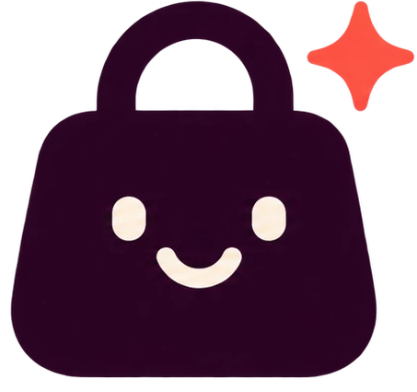
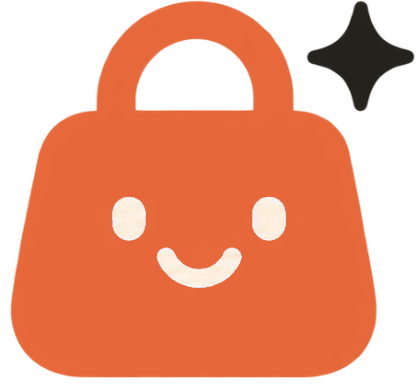
Expo builds and Growth Hacker admin
- eas.json: preview (Android APK, iOS simulator) and production profiles; phone builds point at the live server
- app.json linked to the Expo project @tayom/shelby
- Shelby admin renamed Growth Hacker and made analytics-only (products and orders live in the Mercur admin);
  /growth redirects to it; no public sign-up; restyled to the orange + charcoal palette and new logo

Claude-Session: https://claude.ai/code/session_012wqzAwzB3todXZcczmyirL

diff --git a/marketplace-app/server/web/app.js b/marketplace-app/server/web/app.js
@@ -1,4 +1,6 @@
-// Shelby for Sellers: shop owners set up their shop, upload products and ship orders.
+// Growth Hacker: Shelby's analytics admin (funnels, retention, experiments, people).
+// Products, prices, stock and orders live in the Mercur admin; the old seller screens below are
+// no longer routed to.
 // Vanilla JS, hash routes. Everything user-provided goes through esc() before it touches innerHTML.
 const $ = s => document.querySelector(s);
 const main = $('#main');
@@ -62,9 +64,7 @@ async function upload(file) { const { url } = await api('/api/seller/upload', { 
 
 function chrome() {
   const signedIn = !!state.user;
-  $('#nav').hidden = !signedIn || (!state.shop && state.user.role !== 'admin');
-  $('#nav-admin').hidden = state.user?.role !== 'admin';
-  $('#nav-analytics').hidden = state.user?.role !== 'admin';
+  $('#nav').hidden = !signedIn || state.user.role !== 'admin';
   $('#who').innerHTML = signedIn ? `<span class="hide-sm">${esc(state.user.email)}</span><button class="btn sm" id="logout">Log out</button>` : '';
   $('#logout')?.addEventListener('click', async () => { await api('/api/auth/logout', { method: 'POST' }); state.user = null; state.shop = null; location.hash = '#/login'; });
   const page = (location.hash.split('/')[1] || 'dash').split('?')[0];
@@ -76,8 +76,8 @@ function viewAuth(mode) {
   const signup = mode === 'signup';
   main.innerHTML = `<div class="auth card">
     <img src="/seller/mark.png" alt="" height="56" />
-    <h1 style="margin-top:12px">${signup ? 'Open your shop on Shelby' : 'Welcome back'}</h1>
-    <p class="sub">${signup ? 'Sell to people who love small shops. 0% commission for your first 60 days.' : 'Log in to manage your shop.'}</p>
+    <h1 style="margin-top:12px">Growth Hacker</h1>
+    <p class="sub">Log in to see Shelby's analytics, funnels and experiments.</p>
     <form id="f" novalidate>
       ${signup ? '<label for="name">Your name</label><input id="name" autocomplete="name" required />' : ''}
       <label for="email">Email</label><input id="email" type="email" autocomplete="email" required />
@@ -86,14 +86,14 @@ function viewAuth(mode) {
       <div class="err" id="err" role="alert"></div>
       <button class="btn primary" style="width:100%;justify-content:center;margin-top:6px">${signup ? 'Create account' : 'Log in'}</button>
     </form>
-    <p class="help" style="text-align:center;margin-top:16px">${signup ? 'Already selling? <a href="#/login">Log in</a>' : 'New here? <a href="#/signup">Open a shop</a>'}</p>
+    <p class="help" style="text-align:center;margin-top:16px">Need access? Ask an existing admin.</p>
   </div>`;
   $('#f').addEventListener('submit', async e => {
     e.preventDefault(); $('#err').textContent = '';
     try {
       const body = { email: $('#email').value, password: $('#pw').value, ...(signup ? { name: $('#name').value, setupCode: $('#code').value } : {}) };
       const { user } = await api(`/api/auth/${signup ? 'signup' : 'login'}`, { method: 'POST', body });
-      state.user = user; await loadMe(); location.hash = state.shop ? '#/' : '#/shop';
+      state.user = user; await loadMe(); location.hash = '#/analytics';
     } catch (err) { $('#err').textContent = err.message; }
   });
   (signup ? $('#name') : $('#email')).focus();
@@ -491,12 +491,10 @@ async function route() {
   chrome();
   track('screen_view', { page: page || 'home', signed_in: !!state.user });
   try {
-    if (!state.user) return viewAuth(page === 'signup' ? 'signup' : 'login');
-    if (!state.shop && page !== 'admin' && page !== 'analytics') return viewShop();
+    if (!state.user) return viewAuth('login');
+    if (state.user.role !== 'admin') { main.innerHTML = '<div class="card empty"><h2>Admins only</h2><p class="sub">Growth Hacker is for the Shelby team. Products and orders are managed in the Mercur admin.</p></div>'; return; }
     main.innerHTML = '<div class="skeleton"></div>';
-    if (page === 'products' && arg) return await viewEditor(decodeURIComponent(arg));
-    const view = { '': viewDash, products: viewProducts, orders: viewOrders, shop: viewShop, admin: viewAdmin, analytics: viewAnalytics }[page] || viewDash;
-    await view();
+    await viewAnalytics();
   } catch (e) { main.innerHTML = `<div class="card empty">${esc(e.message)}</div>`; }
   main.focus({ preventScroll: true });
 }

diff --git a/marketplace-app/server/web/index.html b/marketplace-app/server/web/index.html
@@ -3,20 +3,17 @@
 <head>
   <meta charset="utf-8" />
   <meta name="viewport" content="width=device-width, initial-scale=1" />
-  <title>Shelby for Sellers</title>
+  <title>Growth Hacker · Shelby</title>
   <link rel="icon" href="/seller/favicon.png" />
   <link rel="stylesheet" href="/seller/styles.css" />
 </head>
 <body>
   <header class="top">
-    <a href="#/" class="brand" aria-label="Shelby for Sellers home"><img src="/seller/logo.png" alt="Shelby" height="30" /><span>for Sellers</span></a>
-    <nav id="nav" aria-label="Seller sections" hidden>
-      <a href="#/" data-nav="dash">Home</a>
-      <a href="#/products" data-nav="products">Products</a>
-      <a href="#/orders" data-nav="orders">Orders</a>
-      <a href="#/shop" data-nav="shop">Shop</a>
-      <a href="#/admin" data-nav="admin" id="nav-admin" hidden>Admin</a>
-      <a href="#/analytics" data-nav="analytics" id="nav-analytics" hidden>Analytics</a>
+    <a href="#/" class="brand" aria-label="Growth Hacker home"><img src="/seller/logo.png" alt="Shelby" height="30" /><span>Growth Hacker</span></a>
+    <!-- Analytics only: products, prices, stock and orders are managed in the Mercur admin. -->
+    <nav id="nav" aria-label="Growth sections" hidden>
+      <a href="#/analytics" data-nav="analytics" id="nav-analytics">Analytics</a>
+      <a href="https://commerce-production-4c7b571b.up.railway.app/dashboard" target="_blank" rel="noopener">Products and orders ↗</a>
     </nav>
     <div class="who" id="who"></div>
   </header>

diff --git a/marketplace-app/server/web/styles.css b/marketplace-app/server/web/styles.css
@@ -1,6 +1,6 @@
 :root {
-  --bg: #FAF7F2; --surface: #fff; --ink: #2B0627; --ink2: #5F5260; --ink3: #8E8290; --line: #ECE5DB;
-  --accent: #FD5243; --accent-soft: #FFE7E3; --good: #1E8E5A; --good-soft: #E3F4EB; --warn: #9A6412; --warn-soft: #FDF1DC;
+  --bg: #FAF7F2; --surface: #fff; --ink: #231F1A; --ink2: #5A5148; --ink3: #716759; --line: #ECE5DB;
+  --accent: #BF4F26; --accent-soft: #FDE9DC; --good: #1E8E5A; --good-soft: #E3F4EB; --warn: #9A6412; --warn-soft: #FDF1DC;
   --r: 14px; font-family: ui-sans-serif, system-ui, -apple-system, "Segoe UI", Roboto, sans-serif;
 }
 * { box-sizing: border-box; }
